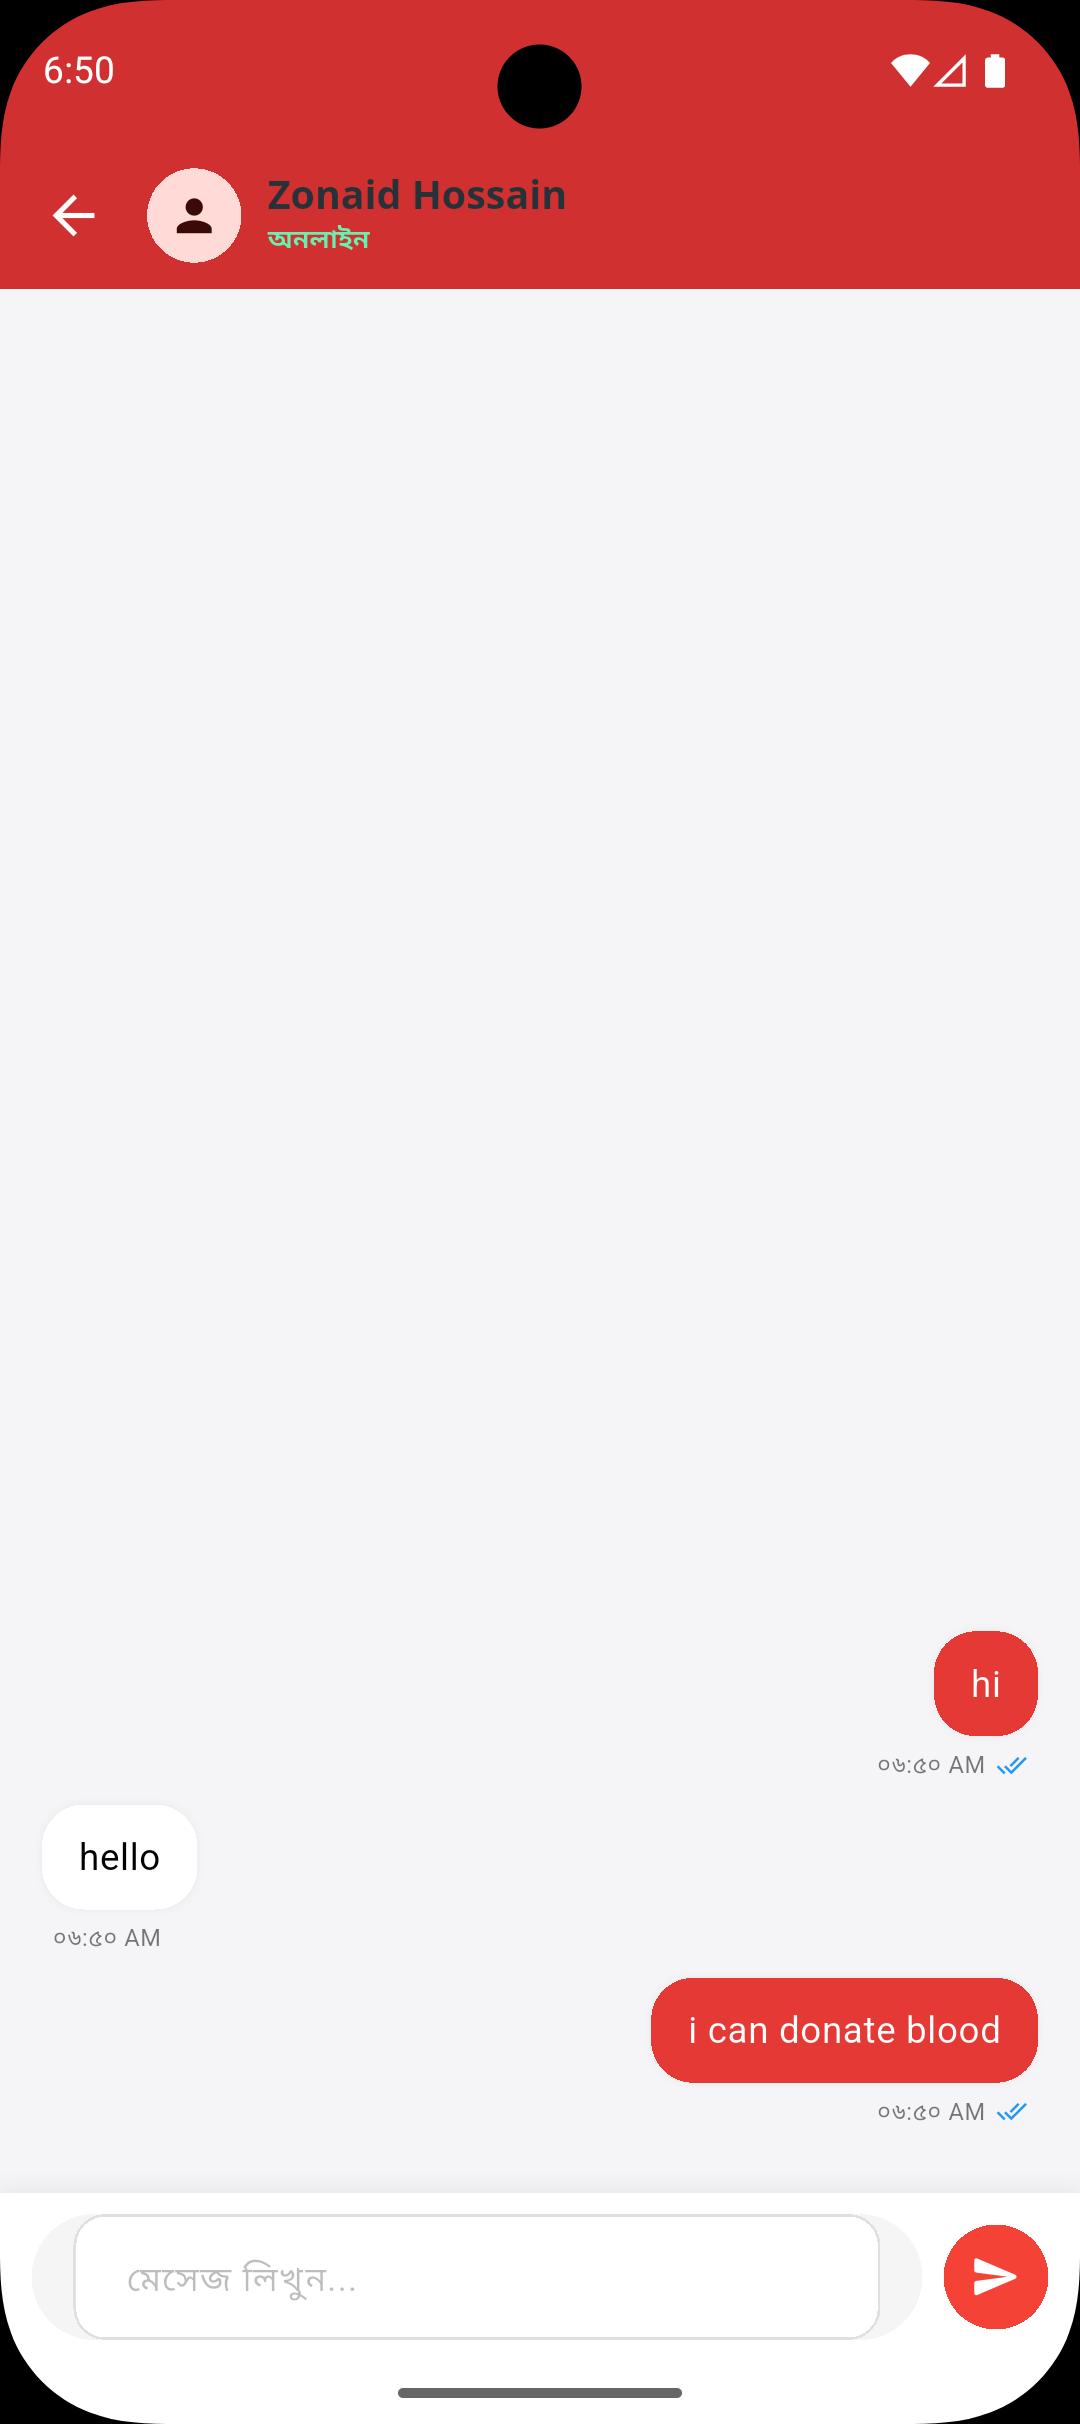
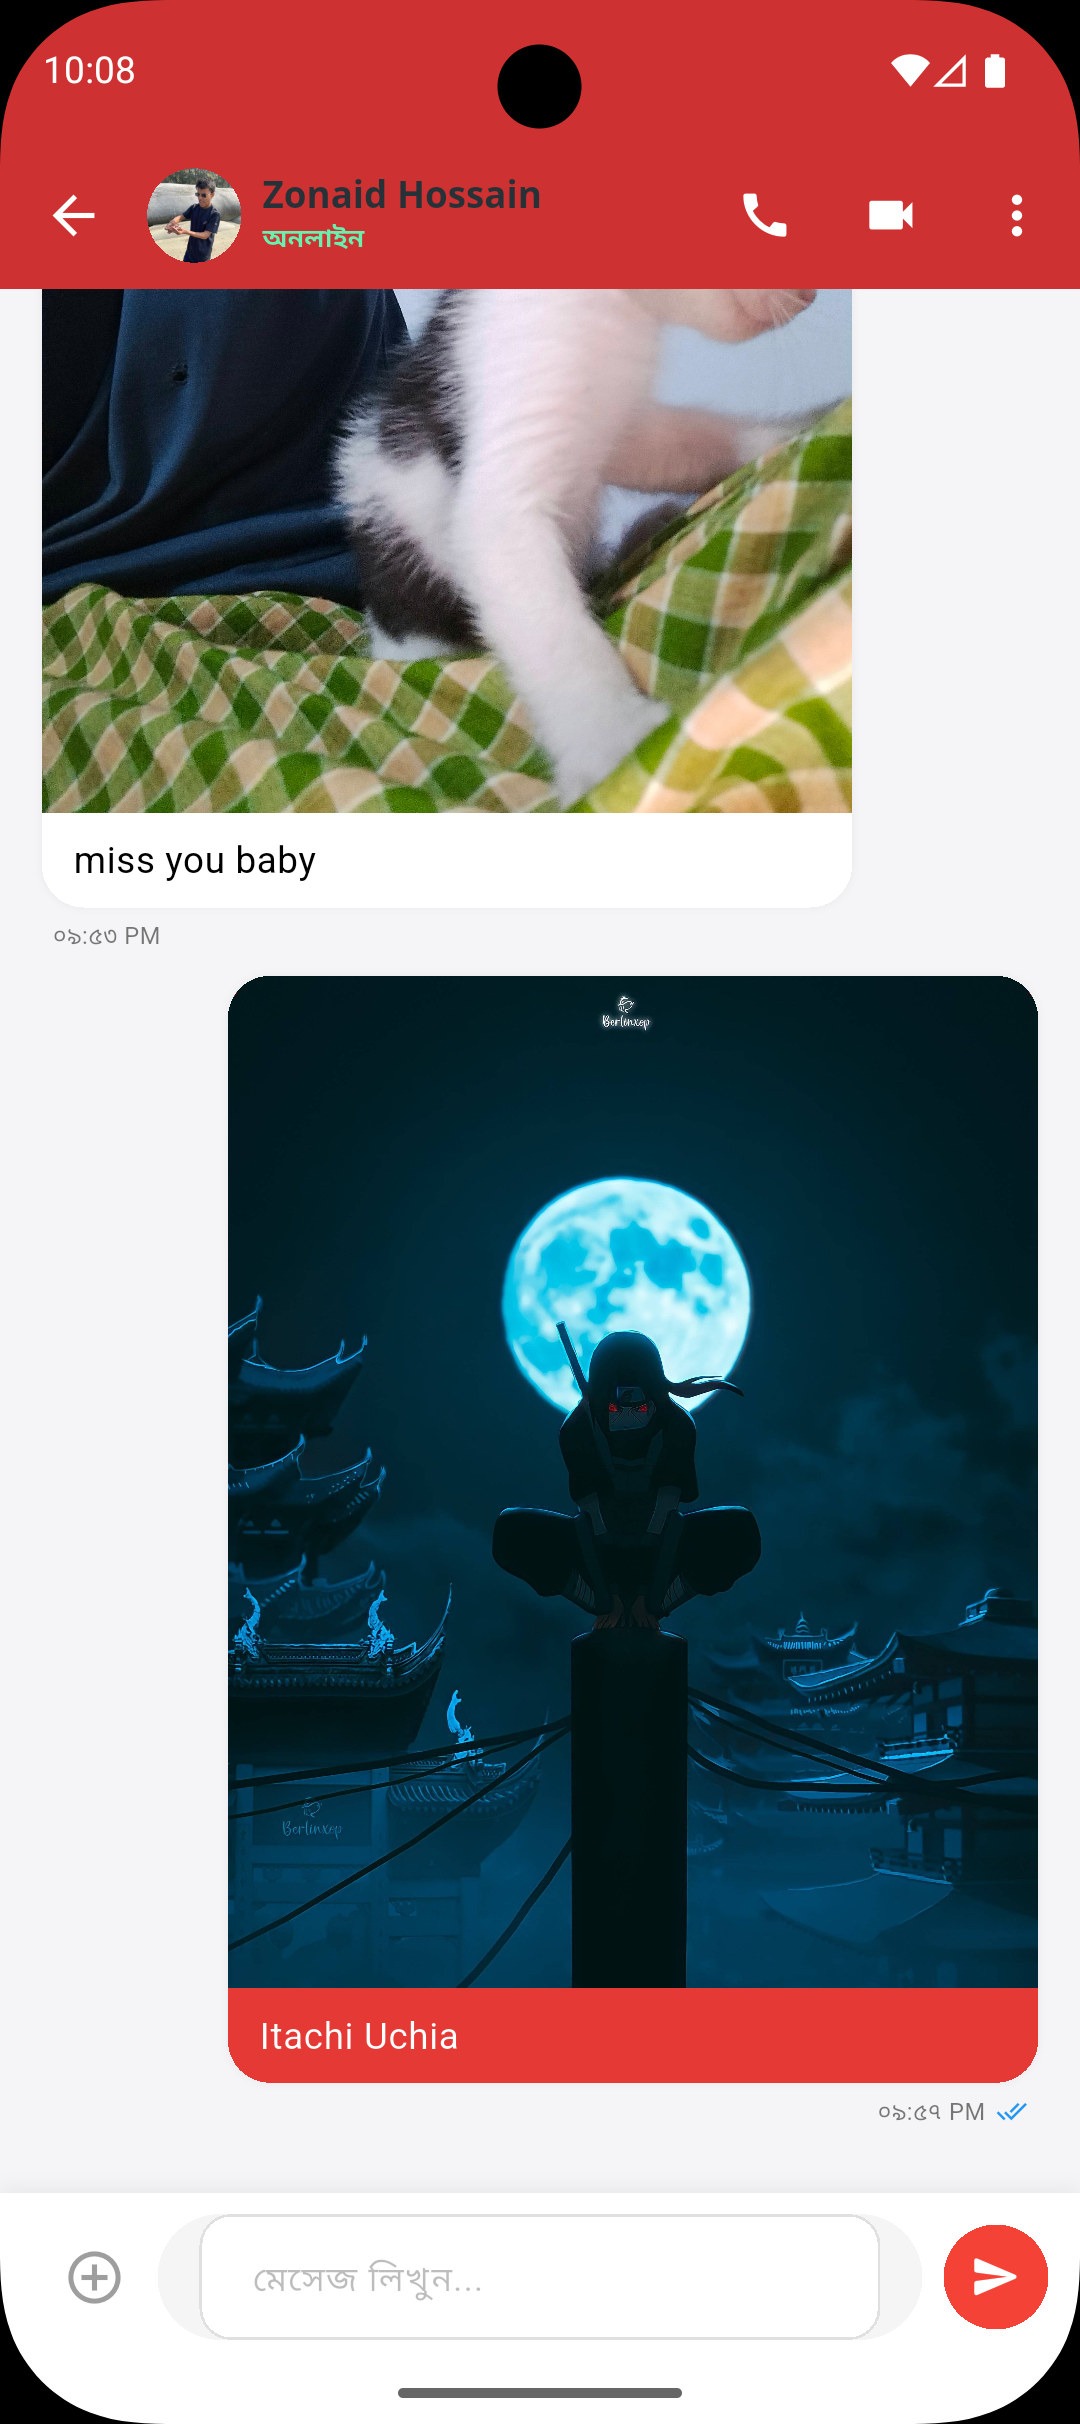
Update README.md with new features and updated tech stack
- Add Agora and Cloudinary badges and descriptions to the tech stack
- Update "Key Features" to include voice/video calling (Agora RTC), media sharing in chat, and Cloudinary integration
- Refresh the "App Showcase" section with updated screenshots, including a new donor list view
- Streamline project description and feature lists for better readability
- Update "Getting Started" instructions to include Cloudinary and Agora setup
- Refactor project structure overview to reflect global services (Cloudinary, Agora) in the `core` directory
- Remove the development roadmap and contribution guidelines for a more concise documentation style

diff --git a/README.md b/README.md
@@ -3,23 +3,25 @@
 [![Flutter](https://img.shields.io/badge/Flutter-3.x-02569B?style=for-the-badge&logo=flutter&logoColor=white)](https://flutter.dev)
 [![Firebase](https://img.shields.io/badge/Firebase-FFCA28?style=for-the-badge&logo=firebase&logoColor=black)](https://firebase.google.com)
 [![Riverpod](https://img.shields.io/badge/Riverpod-00C4B4?style=for-the-badge&logo=dart&logoColor=white)](https://riverpod.dev)
-[![License: MIT](https://img.shields.io/badge/License-MIT-green.svg?style=for-the-badge)](https://opensource.org/licenses/MIT)
+[![Agora](https://img.shields.io/badge/Agora-80C41C?style=for-the-badge&logo=agora&logoColor=white)](https://www.agora.io)
+[![Cloudinary](https://img.shields.io/badge/Cloudinary-3448C5?style=for-the-badge&logo=cloudinary&logoColor=white)](https://cloudinary.com)
 
-**Blood Donate** is a modern, real-time blood donation platform designed to bridge the gap between donors and recipients. Built with a focus on user experience, it features a "Modern Red" aesthetic, robust localization (Bangla/English), and a gamified ranking system to encourage life-saving contributions.
+**Blood Donate** is a high-performance, real-time blood donation ecosystem built to save lives through technology. It features a "Modern Red" aesthetic, robust localization (Bangla/English), real-time communication, and integrated video/voice calling.
 
 ---
 
 ## 📸 App Showcase
 
 <p align="center">
-  <img src="./assets/screenshots/home.png" width="32%" alt="Home Screen" />
-  <img src="./assets/screenshots/request.png" width="32%" alt="Request Screen" />
-  <img src="./assets/screenshots/search.png" width="32%" alt="Search Screen" />
+  <img src="./assets/screenshots/home.png" width="31%" alt="Home Screen" />
+  <img src="./assets/screenshots/request.png" width="31%" alt="Request Screen" />
+  <img src="./assets/screenshots/donor.png" width="31%" alt="Donor List" />
 </p>
 
 <p align="center">
-  <img src="./assets/screenshots/profile.png" width="32%" alt="User Profile" />
-  <img src="./assets/screenshots/chat.png" width="32%" alt="Chat System" />
+  <img src="./assets/screenshots/profile.png" width="31%" alt="User Profile" />
+  <img src="./assets/screenshots/chat.png" width="31%" alt="Chat System" />
+  <img src="./assets/screenshots/search.png" width="31%" alt="Search Screen" />
 </p>
 
 ---
@@ -27,54 +29,55 @@
 ## ✨ Key Features
 
 ### 🩸 Smart Blood Requests & Management
-- **Localized Precision**: Integrated with comprehensive Bangladeshi division/district/thana/union data.
-- **Intelligent Forms**: Context-aware hints (e.g., `hospital_hint`, `problem_hint`) guide users through quick request creation.
-- **WhatsApp Fallback**: Automated logic uses primary phone numbers for WhatsApp if not provided separately.
-- **Emergency Priority**: High-visibility alerts for urgent blood needs with location-based push notifications.
+- **Hyper-Local Data**: Integrated with comprehensive Bangladeshi division, district, thana, and union data for precise location matching.
+- **Intelligent Forms**: Context-aware guidance for quick request creation.
+- **WhatsApp Integration**: Automatic fallback to WhatsApp for better communication.
+- **Emergency Priority**: High-visibility alerts for urgent blood needs with push notifications.
+
+### 📞 Advanced Communication (Real-time)
+- **Voice & Video Calling**: Powered by **Agora RTC** for direct and secure communication between donors and recipients.
+- **Smart Chat System**: Real-time messaging with **Image & Video sharing** capabilities.
+- **Media Previews**: Send media with captions and preview them before sending.
+- **Cloudinary Integration**: Efficient and fast media hosting for chat and profile pictures.
 
 ### 🏅 Gamification & Donor Ranks
 Encouraging regular donations through a dynamic milestone-based ranking system:
-- 🌱 **Newbie** (0 Donations) | 🥉 **Bronze** (1+) | 🥈 **Silver** (5+)
-- 🥇 **Gold** (15+) | 💎 **Platinum** (30+) | 👑 **Diamond** (50+)
+- 🌱 **Newbie** | 🥉 **Bronze** | 🥈 **Silver** | 🥇 **Gold** | 💎 **Platinum** | 👑 **Diamond**
 
-### 💬 Real-time Communication
-- **Direct Messaging**: Secure in-app chat system between donors and recipients.
-- **Privacy First**: Optional email verification and secure data handling.
-- **Smart Notifications**: Instant alerts for messages, nearby requests, and rank updates.
-
-### 📄 Professional Reporting & History
-- **PDF Generation**: Download professional donation/receipt history with proper Bengali typography support.
-- **Activity Tracking**: Comprehensive logs of all completed, pending, and cancelled requests.
+### 📄 Professional Tools
+- **PDF Reports**: Professional donation/receipt history generation with Bengali typography support.
+- **Profile Customization**: Users can update profile pictures and details seamlessly.
+- **Push Notifications**: Instant alerts for nearby requests, messages, and call logs.
 
 ---
 
 ## 🛠 Tech Stack & Architecture
 
-This project implements **Clean Architecture** principles to ensure scalability, maintainability, and ease of testing.
+This project follows **Clean Architecture** to ensure long-term maintainability.
 
 - **Frontend**: Flutter (Dart)
-- **State Management**: [Riverpod](https://riverpod.dev/) (Refined provider-based state handling)
-- **Backend Service**: Firebase Ecosystem
-  - **Firestore**: Real-time NoSQL database with optimized indexing.
-  - **Cloud Messaging (FCM)**: Cross-platform push notifications.
-  - **Firebase Auth**: Secure authentication flow.
+- **State Management**: [Riverpod](https://riverpod.dev/) (Provider-based logic)
+- **Backend**: 
+  - **Firebase**: Firestore, Cloud Messaging (FCM), Firebase Auth.
+  - **Cloudinary**: Media storage & optimization.
+  - **Agora**: Real-time voice and video engine.
 - **UI/UX**: 
-  - **Theme**: "Modern Red" palette (`0xFFE53935`) with rounded design language (20-24px radius).
-  - **Fonts**: Google Fonts (Noto Sans Bengali) for native readability.
-  - **Localization**: Fully dynamic BN/EN translation system.
+  - **Theme**: "Modern Red" palette with a focus on accessibility.
+  - **Fonts**: Google Fonts (Noto Sans Bengali).
+  - **Localization**: Full BN/EN dynamic translation system.
 
 ### 📂 Project Structure
 ```text
 lib/
-├── core/             # Themes, Routing, Localization, Global Services
-├── data/             # Models, Repositories, and Data Sources (Firebase)
-├── domain/           # Business Logic, Interfaces, and Entities
-└── presentation/     # UI Screens, Widgets, and Riverpod Providers
+├── core/             # Global Themes, Services (Cloudinary, Agora), Localization
+├── data/             # Models, Repositories, and Firebase Data Sources
+├── domain/           # Business Logic Interfaces and Entities
+└── presentation/     # UI Screens (Auth, Chat, Home, Profile) and Providers
 ```
 
 ---
 
-## 🚀 Installation & Setup
+## 🚀 Getting Started
 
 1. **Clone the repository**:
    ```bash
@@ -86,44 +89,23 @@ lib/
    flutter pub get
    ```
 
-3. **Firebase Configuration**:
-   - Create a project in the [Firebase Console](https://console.firebase.google.com/).
-   - Add an Android app and place the `google-services.json` in `android/app/`.
-   - Enable Firestore, Auth (Email/Pass), and Cloud Messaging.
+3. **Firebase & Cloudinary Setup**:
+   - Place `google-services.json` in `android/app/`.
+   - Update `cloudinary_service.dart` with your Cloudinary credentials.
+   - Update Agora App ID in your calling service.
 
-4. **Environment Check**:
-   - Ensure your assets folder contains `unions.json` for location data.
-   - Run `flutter doctor` to verify your environment.
-
-5. **Run the app**:
+4. **Run the app**:
    ```bash
    flutter run
    ```
 
 ---
 
-## 🎯 Development Roadmap
-- [ ] **Map Integration**: Visualizing nearby donors on Google Maps.
-- [ ] **Dark Mode**: Implementing a refined dark version of the Modern Red theme.
-- [ ] **Advanced Filtering**: Enhanced donor search based on last donation date and availability.
-- [ ] **Volunteer Dashboard**: Dedicated interface for blood donation organizations.
-
----
-
 ## 📄 License
 This project is licensed under the MIT License - see the [LICENSE](LICENSE) file for details.
-
-## 🤝 Contribution
-Contributions are what make the open-source community such an amazing place to learn, inspire, and create. Any contributions you make are **greatly appreciated**.
-
-1. Fork the Project
-2. Create your Feature Branch (`git checkout -b feature/AmazingFeature`)
-3. Commit your Changes (`git commit -m 'Add some AmazingFeature'`)
-4. Push to the Branch (`git push origin feature/AmazingFeature`)
-5. Open a Pull Request
 
 ---
 <p align="center">
   <b>Developed with ❤ for the Community.</b><br>
-  <i>"Donate Blood, Save Lives"</i>
+  <i>"Your contribution can save a life today."</i>
 </p>
